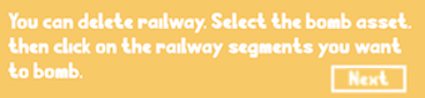
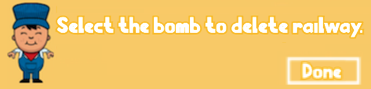
updated onboarding

diff --git a/index.html b/index.html
@@ -395,7 +395,14 @@ if (station.isFactory()) {
 
 
   // adding a modal with instructions for onboarding
+  // TODO move this in tutorial class [oana]
   let onboarding_images = ['instructions_railway', 'instructions_bomb', 'instructions_train', 'instructions_first_goal']
+  let arrow_coordinates = [
+    [Math.floor(constants.WIDTH / 2) - (3.5 * constants.TILESIZE), constants.HEIGHT - (1.5 * constants.TILESIZE)],
+    [Math.floor(constants.WIDTH / 2) - (1.5 * constants.TILESIZE), constants.HEIGHT - (1.5 * constants.TILESIZE)],
+    [Math.floor(constants.WIDTH / 2) - (-1.5 * constants.TILESIZE), constants.HEIGHT - (1.5 * constants.TILESIZE)],
+    [null, null]
+]
   _showOnboarding(this, onboarding_images)
 
   function _showOnboarding(game, onboarding_images)
@@ -403,16 +410,15 @@ if (station.isFactory()) {
       // adding here arrow code
       let arrow_x = Math.floor(constants.WIDTH / 2)  - (3.5 * constants.TILESIZE);
       let arrow_y = constants.HEIGHT - (3.5 * constants.TILESIZE);
-      _showOnboardingHelper(game, onboarding_images, 0, arrow_x, arrow_y)
+      _showOnboardingHelper(game, onboarding_images, 0, true, arrow_x, arrow_y)
   }
 
-  function _showOnboardingHelper (game, onboarding_images, onboarding_step=null, arrow_x, arrow_y)
+  function _showOnboardingHelper (game, onboarding_images, onboarding_step=null, use_arrow=false, arrow_x=null, arrow_y=null)
   {
     let onboarding_steps =  onboarding_images.length
     if (onboarding_step >= onboarding_steps){
       return
     }
-	  game.player.tutorial.step1 = true;
     var button = game.add.image(550, 150, onboarding_images[onboarding_step])
 
     var model = game.plugins.get('rexmodalplugin').add(button, {
@@ -425,21 +431,30 @@ if (station.isFactory()) {
       })
     button.depth = 1000;
     // Manual close Modal
+
     button
         .setInteractive()
         .on('pointerup', function () {
             model.requestClose()
-            arrow_railway_onboarding.destroy()
-            game.player.tutorial.step1 = false;
-            _showOnboardingHelper(game, onboarding_images, onboarding_step+1, arrow_x + 2 * constants.TILESIZE, arrow_y)
+            _showOnboardingHelper(game, onboarding_images, onboarding_step+1, true, arrow_x + 2 * constants.TILESIZE, arrow_y)
         })
-
     // modal code ends
+      if (arrow_coordinates[onboarding_step][0]==null && arrow_coordinates[onboarding_step][1] == null){
+        return
+      }
 
       let arrow_railway_onboarding = game.add.image(arrow_x, arrow_y, 'arrow_down');
-	    game.player.tutorial.arrow = arrow_railway_onboarding;
-	    game.player.tutorial.step1 = true;
+      game.player.tutorial.arrow = arrow_railway_onboarding;
+      game.player.tutorial.step1 = true;
       arrow_railway_onboarding.depth = 1100;
+
+      button
+      .setInteractive()
+      .on('pointerup', function () {
+          arrow_railway_onboarding.destroy()
+          game.player.tutorial.step1 = false;
+        })
+
     // ending onboarding arrow
   }
 }

diff --git a/Player.js b/Player.js
@@ -11,8 +11,9 @@ class Tutorial{
 		this.player = player;
 		this.step1 = false;
 		this.arrowStep = 0;
+		;debugger
 	}
-
+    // TODO moves only on first step
 	update(){
 		if(this.step1){
 			let range = 40;
@@ -55,7 +56,7 @@ class Player {
 	  this._game = _game;
 	this.treeFallingCount = 0;
 	  this.trainBuilder = new TrainBuilder(
-			this._game.grid, 
+			this._game.grid,
 			this._game.locomotiveGroup,
 			this._game,
 			0),
